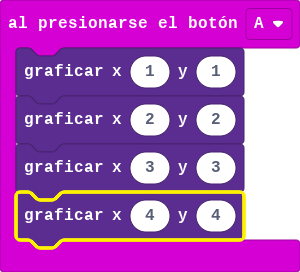
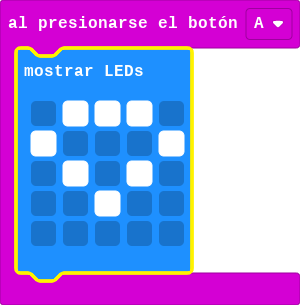
Actualizar main.blocks, main.ts

diff --git a/main.ts b/main.ts
@@ -1,6 +1,9 @@
 input.onButtonPressed(Button.A, function () {
-    led.plot(1, 1)
-    led.plot(2, 2)
-    led.plot(3, 3)
-    led.plot(4, 4)
+    basic.showLeds(`
+        . # # # .
+        # . . . #
+        . # . # .
+        . . # . .
+        . . . . .
+        `)
 })
